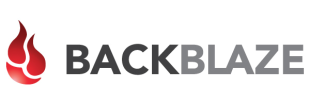
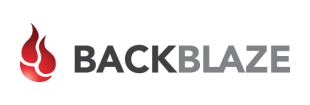
gold partners: Updates and additions
Add Bart's Bakery, iFixit, Outgrow.me, redditgifts, and Uber
Various copy/logo updates

Changed region(s): [[0.0, 0.2, 0.9871, 0.8286]]

diff --git a/r2/r2/templates/goldpartnerspage.html b/r2/r2/templates/goldpartnerspage.html
@@ -65,15 +65,24 @@
                    static('gold/partner-backblaze.png'), 
                    img_url='http://backblaze.com',
                    description_md=_('# Backblaze Online Backup\n'
-                                    '3 months of free service from Backblaze Online Backup.'),
+                                    '3 months of free service (new accounts only).'),
+                   button_dest='claim')}
+
+    ${partner_item('bartsbakery',
+                   _("Claim your code below, then enter it as a Coupon code in your cart at http://bartsbakery.com to get 20% off any product."),
+                   static('gold/partner-bartsbakery.png'), 
+                   img_url='http://bartsbakery.com',
+                   description_md=_("# Bart's Bakery Chocolate Chip Cookies\n"
+                                    'Cookies. Really good cookies. 20% off any product.'),
+                   extra_class='new',
                    button_dest='claim')}
 
     ${partner_item('betabrand',
-                   _("Presently Pantless? Get 20% off all stylish leg coverings at Betabrand.com, from Karate Casual Drawstring Trousers to Sons of Britches Jeans to Dress Pant Sweatpants. (Or enjoy your discount on any product.)"),
+                   _("Claim your code below, then enter it as a Gift code in your cart at http://betabrand.com to get 20% off."),
                    static('gold/partner-betabrand.png'), 
                    img_url='http://betabrand.com',
                    description_md=_('# Betabrand Unique Online Fashions\n'
-                                    '20% off any item in our collection.'),
+                                    'Presently Pantless? Get 20% off any item in our collection.'),
                    extra_class='new',
                    button_dest='claim')}
 
@@ -82,7 +91,7 @@
                    static('gold/partner-empiremayo.png'),
                    img_url='http://empiremayo.com',
                    description_md=_('# Empire Mayonnaise\n'
-                                    '15% discount (two uses per customer).'),
+                                    'Exquisite mayonnaises. 15% discount (two uses per customer).'),
                    button_dest='claim')}
 
     ${partner_item('goldbely',
@@ -90,9 +99,44 @@
                    static('gold/partner-goldbely.png'),
                    img_url='http://goldbely.com',
                    description_md=_('# Goldbely Food Explorers\n'
-                                    '$20 off purchases of $50 or more.'),
+                                    'Gourmet dishes, delivered. $20 off purchases of $50 or more.'),
                    button_dest='https://www.goldbely.com/reddit-gold',
                    button_label=_('visit Goldbely'))}
+
+    ${partner_item('ifixit',
+                   _("Claim your code below, then enter it as a Coupon Code in your cart at http://ifixit.com for $20 off a $50+ order."),
+                   static('gold/partner-ifixit.png'),
+                   img_url='http://ifixit.com',
+                   description_md=_('# iFixit\n'
+                                    'Guides, parts and tools for repairs. $20 off purchases of $50 or more.'),
+                   extra_class='new',
+                   button_dest='claim')}
+
+    ${partner_item('outgrowme',
+                   _("Claim your code below, then use it during the second step of the checkout process at http://outgrow.me/gold."),
+                   static('gold/partner-outgrowme.png'),
+                   img_url='http://outgrow.me/gold',
+                   description_md=_('# Outgrow.me Marketplace\n'
+                                    'Successful crowd-funded items. 15% discount.'),
+                   extra_class='new',
+                   button_dest='claim')}
+
+    ${partner_item('redditgifts',
+                   _("Watch your reddit PMs to see if you're one of the lucky Golden Tikkit recipients!"),
+                   static('gold/partner-redditgifts.png'), 
+                   img_url='http://redditgifts.com',
+                   description_md=_('# redditgifts marketplace\n'
+                                    'With our "Golden Tikkit" program, five lucky gold members will be getting a t-shirt and 3 months of redditgifts Elves every week.'),
+                   extra_class='new')}
+
+    ${partner_item('uber',
+                   _("Claim your code below, then visit http://uber.com/app and enter the code while signing up."),
+                   static('gold/partner-uber.png'),
+                   img_url='http://uber.com',
+                   description_md=_('# Uber Private Car Service\n'
+                                    'Black car service requested via mobile app. $25 off your first ride (valid only in the US).'),
+                   extra_class='new',
+                   button_dest='claim')}
 
     ${partner_item('uniqlo',
                    _("Keep an eye on your reddit PMs, as once a week Uniqlo will be sending out a message to a lucky gold member. Redeem your free prize within 24 hours, and you'll be lookin' snazzy in no time!"),
@@ -107,7 +151,7 @@
                    static('gold/partner-urbilis.png'),
                    img_url='http://urbilis.com',
                    description_md=_('# Urbilis Urban Gardening\n'
-                                    '$10 off purchases of $50 or more.'),
+                                    'Creative & elegant gardening solutions. $10 off purchases of $50 or more.'),
                    button_dest='claim')}
 
     <section id="terms" class="etc last">

diff --git a/r2/r2/templates/goldinfopage.html b/r2/r2/templates/goldinfopage.html
@@ -119,6 +119,11 @@
           <li>${partner_item('empiremayo', 'tasty spreads')}</li>
           <li>${partner_item('betabrand', 'unique online fashions')}</li>
           <li>${partner_item('urbilis', 'high-end home gardening')}</li>
+          <li>${partner_item('redditgifts', 'reddit bazaar')}</li>
+          <li>${partner_item('bartsbakery', 'delicious cookies')}</li>
+          <li>${partner_item('outgrowme', 'crowd-funded commodities')}</li>
+          <li>${partner_item('uber', 'chauffeur on-demand')}</li>
+          <li>${partner_item('ifixit', 'technological rectifications')}</li>
         </ul>
     </section>
     ${feature_item('filter-all',
